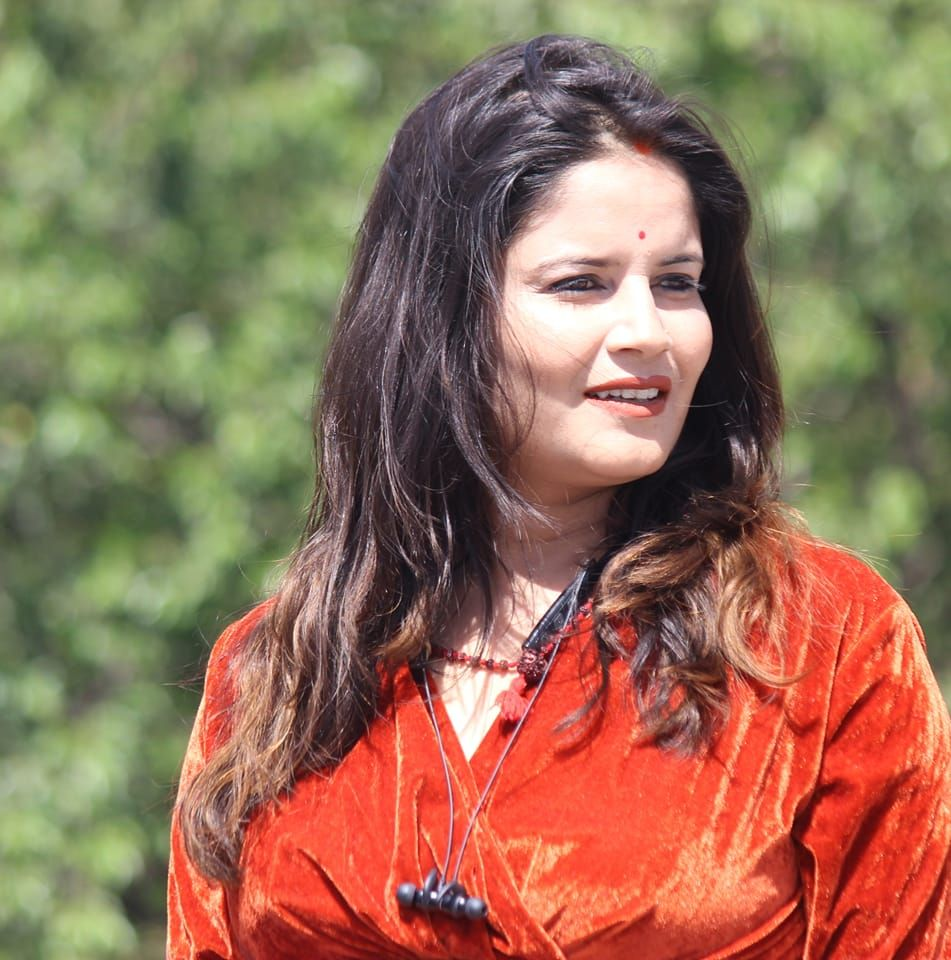
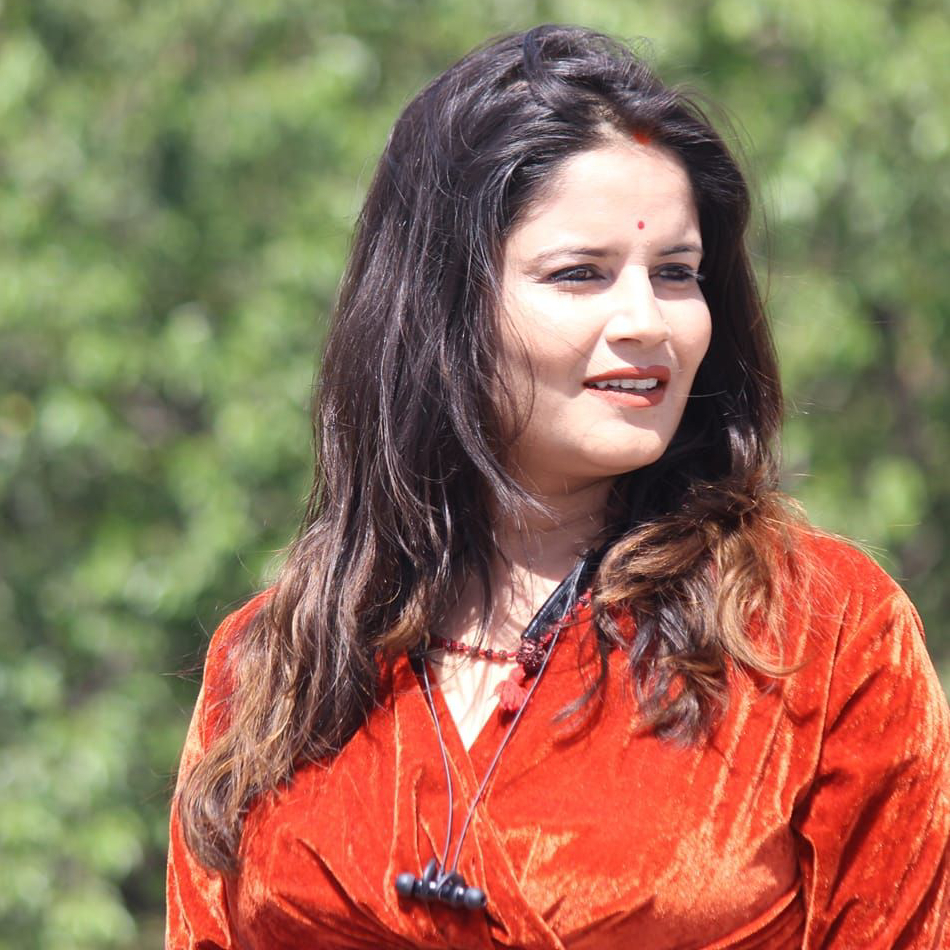
small changes

diff --git a/components/otherPages/Privacy.jsx b/components/otherPages/Privacy.jsx
@@ -7,88 +7,76 @@ export default function Privacy() {
         <div className="page-wrap panel vstack gap-4 lg:gap-6 xl:gap-8">
           <header className="page-header panel vstack justify-center gap-2 lg:gap-4 text-center">
             <div className="panel">
-              <h1 className="h3 lg:h1 m-0">Privacy policy</h1>
+              <h1 className="h3 lg:h1 m-0">Privacy Policy</h1>
             </div>
           </header>
           <div className="page-content panel fs-6 md:fs-5">
             <p>
-              It is a long established fact that a reader will be distracted by
-              the readable content of a page when looking at its layout. The
-              point of using Lorem Ipsum is that it has a more-or-less normal
-              distribution of letters, as opposed to using 'Content here,
-              content here', making it look like readable English.
+              At Galactic Technologies, your privacy is important to us. This Privacy Policy explains how we collect, use, protect, and disclose your information when you visit our website or use our services.
             </p>
             <p>
-              Many desktop publishing packages and web page editors now use
-              Lorem Ipsum as their default model text, and a search for 'lorem
-              ipsum' will uncover many web sites still in their infancy. Various
-              versions have evolved over the years, sometimes by accident,
-              sometimes on purpose (injected humour and the like).
+              By using our website or engaging with our services, you agree to the practices described in this policy.
             </p>
-            <p>
-              All the Lorem Ipsum generators on the Internet tend to repeat
-              predefined chunks as necessary, making this the first true
-              generator on the Internet. It uses a dictionary of over 200 Latin
-              words, combined with a handful of model sentence structures, to
-              generate Lorem Ipsum which looks reasonable. The generated Lorem
-              Ipsum is therefore always free from repetition, injected humour,
-              or non-characteristic words etc.
-            </p>
-            <h3 className="h4 md:h3 mt-3 lg:mt-6 mb-2">
-              Determination of personal information of users
-            </h3>
+
+            <h3 className="h4 md:h3 mt-3 lg:mt-6 mb-2">1. Information We Collect</h3>
             <ul className="list list-bullets">
-              <li>
-                All the Lorem Ipsum generators on the Internet tend to repeat
-                predefined chunks as necessary, making this the first true
-                generator on the Internet.
-              </li>
-              <li>
-                It uses a dictionary of over 200 Latin words, combined with a
-                handful of model sentence structures, to generate Lorem Ipsum
-                which looks reasonable. The generated Lorem Ipsum is therefore
-                always free from repetition, injected humour, or
-                non-characteristic words etc.
-              </li>
-              <li>
-                There are many variations of passages of Lorem Ipsum available,
-                but the majority have suffered alteration in some form, by
-                injected humour, or randomised words which don't look even
-                slightly believable.
-              </li>
+              <li><strong>Personal Information:</strong> Name, email, phone number, company name, and other data you provide when contacting or working with us.</li>
+              <li><strong>Non-Personal Information:</strong> IP address, browser type, pages visited, and technical data collected through cookies and analytics tools.</li>
             </ul>
-            <h3 className="h4 md:h3 mt-3 lg:mt-6 mb-2">
-              Reasons for collecting and processing user personal information
-            </h3>
-            <ul className="uk-list uk-list-decimal uk-margin-medium@m">
-              <li>
-                It is a long established fact that a reader will be distracted
-                by the readable content of a page when looking at its layout.
-                The point of using Lorem Ipsum is that it has a more-or-less
-                normal distribution of letters.
-              </li>
-              <li>
-                All the Lorem Ipsum generators on the Internet tend to repeat
-                predefined chunks as necessary, making this the first true
-                generator on the Internet.
-              </li>
-              <li>
-                It has survived not only five centuries, but also the leap into
-                electronic typesetting, remaining essentially unchanged.
-              </li>
+
+            <h3 className="h4 md:h3 mt-3 lg:mt-6 mb-2">2. How We Use Your Information</h3>
+            <ul className="list list-bullets">
+              <li>To respond to your inquiries and provide services.</li>
+              <li>To improve our website functionality and user experience.</li>
+              <li>To send relevant updates and communications.</li>
+              <li>To ensure security and prevent fraudulent activity.</li>
             </ul>
+
+            <h3 className="h4 md:h3 mt-3 lg:mt-6 mb-2">3. Sharing Your Information</h3>
             <p>
-              All generators on the Internet tend to repeat predefined chunks as
-              necessary, making this the first true generator on the Internet.
-              It uses a dictionary of over 200 Latin words, combined with a
-              handful of model sentence structures, to generate Lorem Ipsum
-              which looks reasonable. The generated Lorem Ipsum is therefore
-              always free from repetition, injected humour, or
-              non-characteristic words etc.
+              We do not sell or rent your personal information. We may share it with trusted service providers, or when required by law, to protect our rights or comply with legal obligations.
+            </p>
+
+            <h3 className="h4 md:h3 mt-3 lg:mt-6 mb-2">4. Data Security</h3>
+            <p>
+              We implement standard security measures to protect your data. However, no online method is completely secure, and we cannot guarantee absolute security.
+            </p>
+
+            <h3 className="h4 md:h3 mt-3 lg:mt-6 mb-2">5. Cookies and Tracking</h3>
+            <p>
+              We use cookies to enhance your experience and analyze usage. You can manage your cookie preferences in your browser settings.
+            </p>
+
+            <h3 className="h4 md:h3 mt-3 lg:mt-6 mb-2">6. Third-Party Links</h3>
+            <p>
+              Our site may link to third-party websites. We are not responsible for their content or privacy practices. We recommend reviewing their policies separately.
+            </p>
+
+            <h3 className="h4 md:h3 mt-3 lg:mt-6 mb-2">7. Your Rights</h3>
+            <p>
+              You may have the right to access, update, or delete your data. Contact us if you'd like to exercise any data privacy rights or request a copy of your information.
+            </p>
+
+            <h3 className="h4 md:h3 mt-3 lg:mt-6 mb-2">8. Children’s Privacy</h3>
+            <p>
+              Our services are not intended for children under 13. We do not knowingly collect information from minors. If we discover any such data, we will remove it promptly.
+            </p>
+
+            <h3 className="h4 md:h3 mt-3 lg:mt-6 mb-2">9. Changes to This Policy</h3>
+            <p>
+              We may update this Privacy Policy occasionally. The latest version will always be available here. Your continued use of our website after changes means you accept the updated policy.
+            </p>
+
+            <h3 className="h4 md:h3 mt-3 lg:mt-6 mb-2">10. Contact Us</h3>
+            <p>
+              For questions about this policy, please contact us:<br />
+              📧 Email: info@gtl.com <br />
+              📞 Phone: 8894030663 <br />
+              🌐 Website: www.galactictechnologies.com
             </p>
           </div>
           <div className="page-footer panel">
-            <p className="fs-7 opacity-60 m-0">Last updated: 27 Oct, 2024</p>
+            <p className="fs-7 opacity-60 m-0">Last updated: 20 May, 2025</p>
           </div>
         </div>
       </div>

diff --git a/components/homes/home-1/Team.jsx b/components/homes/home-1/Team.jsx
@@ -25,12 +25,13 @@ export default function Team() {
                   <div key={index}>
                     <div className="panel vstack gap-2">
                       <Image
-                        className="w-100 rounded"
-                        src={member.imageSrc}
-                        width={400}
-                        height={400}
-                        alt={member.altText}
-                      />
+  className="w-100 rounded"
+  src={member.imageSrc}
+  width={400}
+  height={400}
+  alt={member.altText}
+  style={{ filter: 'sepia(100%)' }}
+/>
                       <div className="panel vstack items-start gap-0">
                         <h6 className="h6 m-0">{member.name}</h6>
                         <span className="fs-7 opacity-70">

diff --git a/data/footer.js b/data/footer.js
@@ -4,7 +4,6 @@ export const footerLinks = [
       { href: "/page-about", label: "About" },
       { href: "/page-pricing", label: "Pricing" },
       { href: "/page-integrations", label: "Services" },
-      { href: "/page-career", label: "Career" },
       { href: "/page-contact-2", label: "Contact" },
     ],
   },
@@ -20,7 +19,6 @@ export const footerLinks = [
     links: [
       { href: "/blog", label: "Blog" },
       { href: "/page-terms", label: "FAQ" },
-      { href: "/coming-soon", label: "Coming Soon" },
       { href: "/page-terms", label: "Terms of service" },
       { href: "/page-privacy", label: "Privacy policy" },
     ],

diff --git a/components/homes/home-1/FilterGallery.jsx b/components/homes/home-1/FilterGallery.jsx
@@ -38,7 +38,7 @@ const FilterGallery = () => {
                 {['All', 'Bigcommerce', 'React', 'Shopify', 'Squarespace', 'Wordpress', 'Government'].map((filter) => (
                   <button
                     key={filter}
-                    className={`btn ${activeFilter === filter ? 'btn-primary' : 'btn-outline-primary'}`}
+                    className={`btn ${activeFilter === filter ? 'btn-outline-primary' : 'btn-primary'}`}
                     onClick={() => setActiveFilter(filter)}
                   >
                     {filter}
